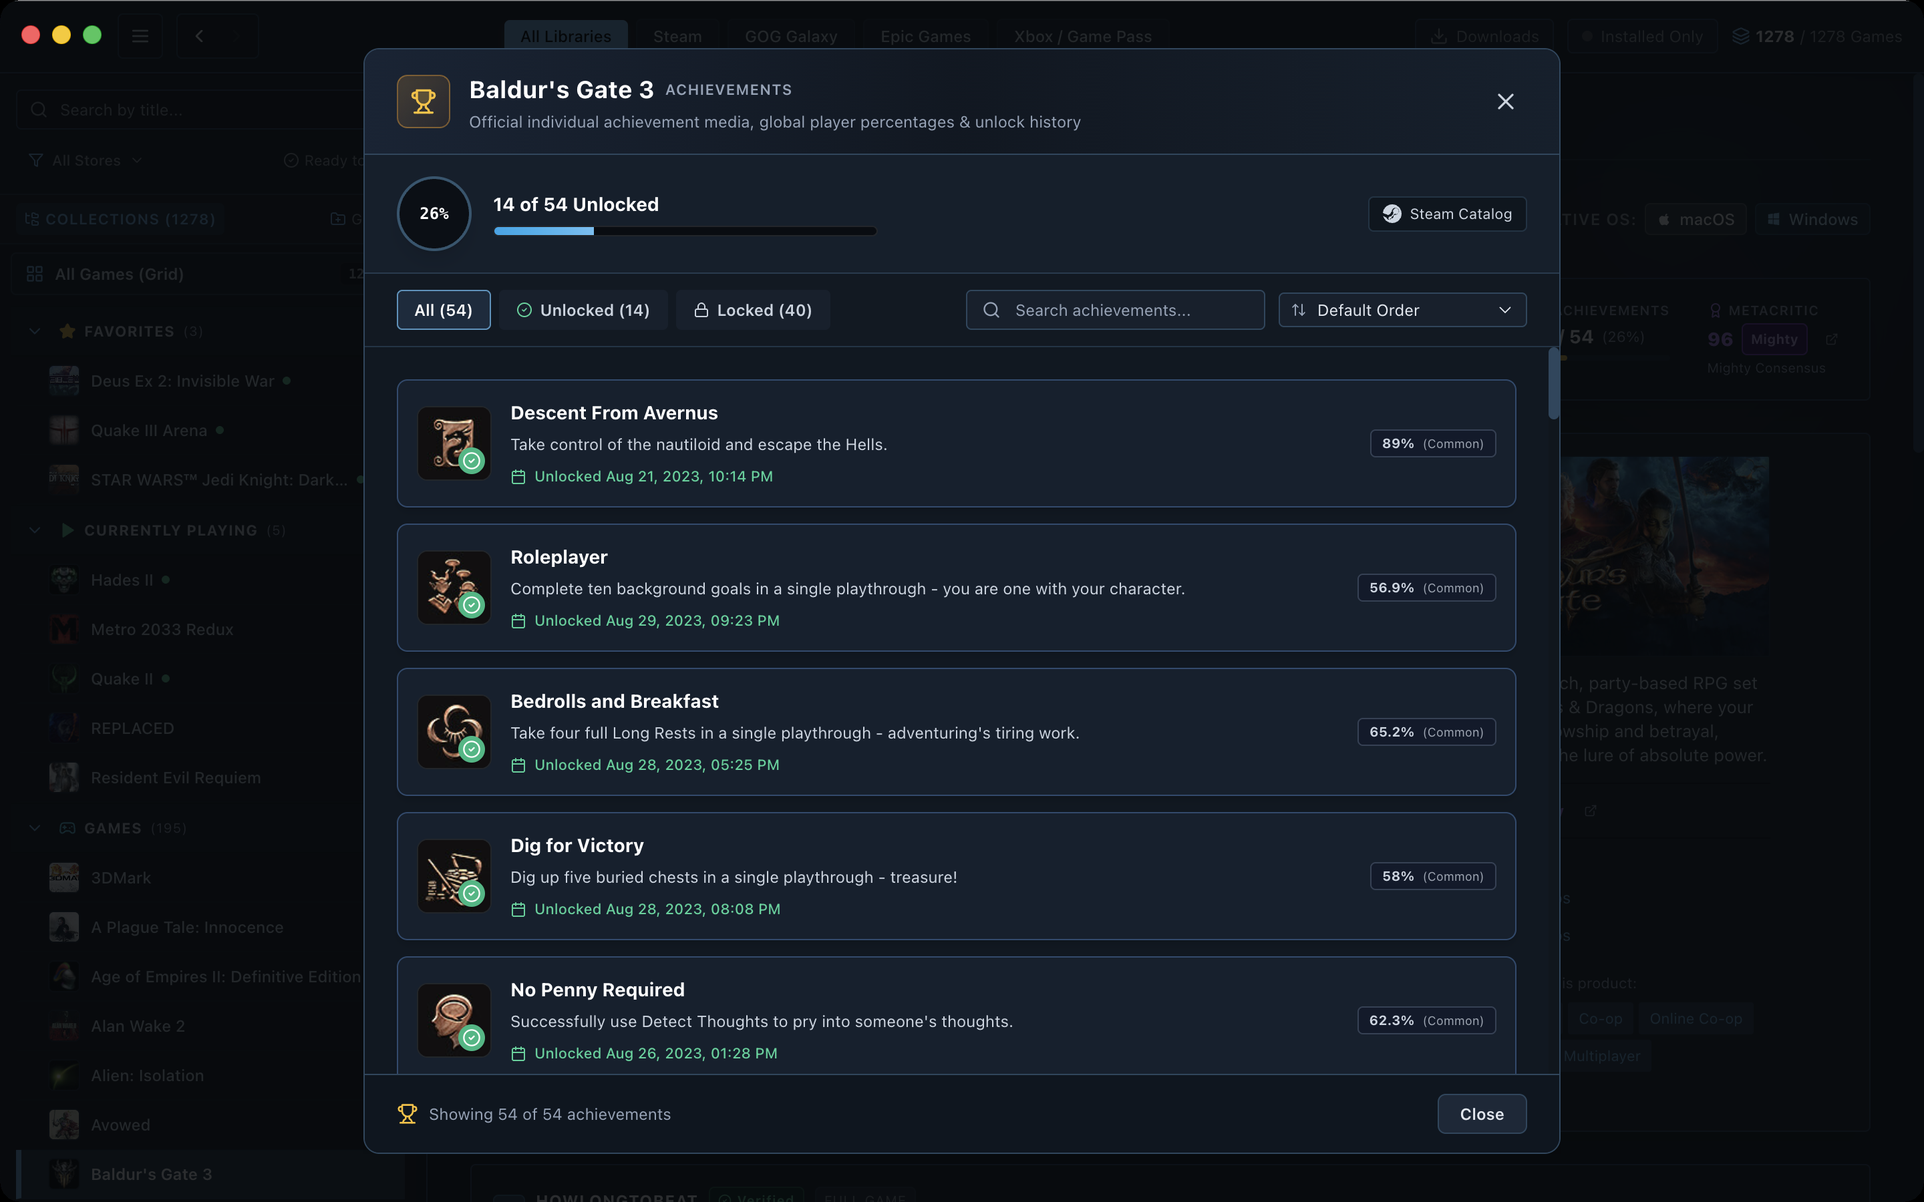
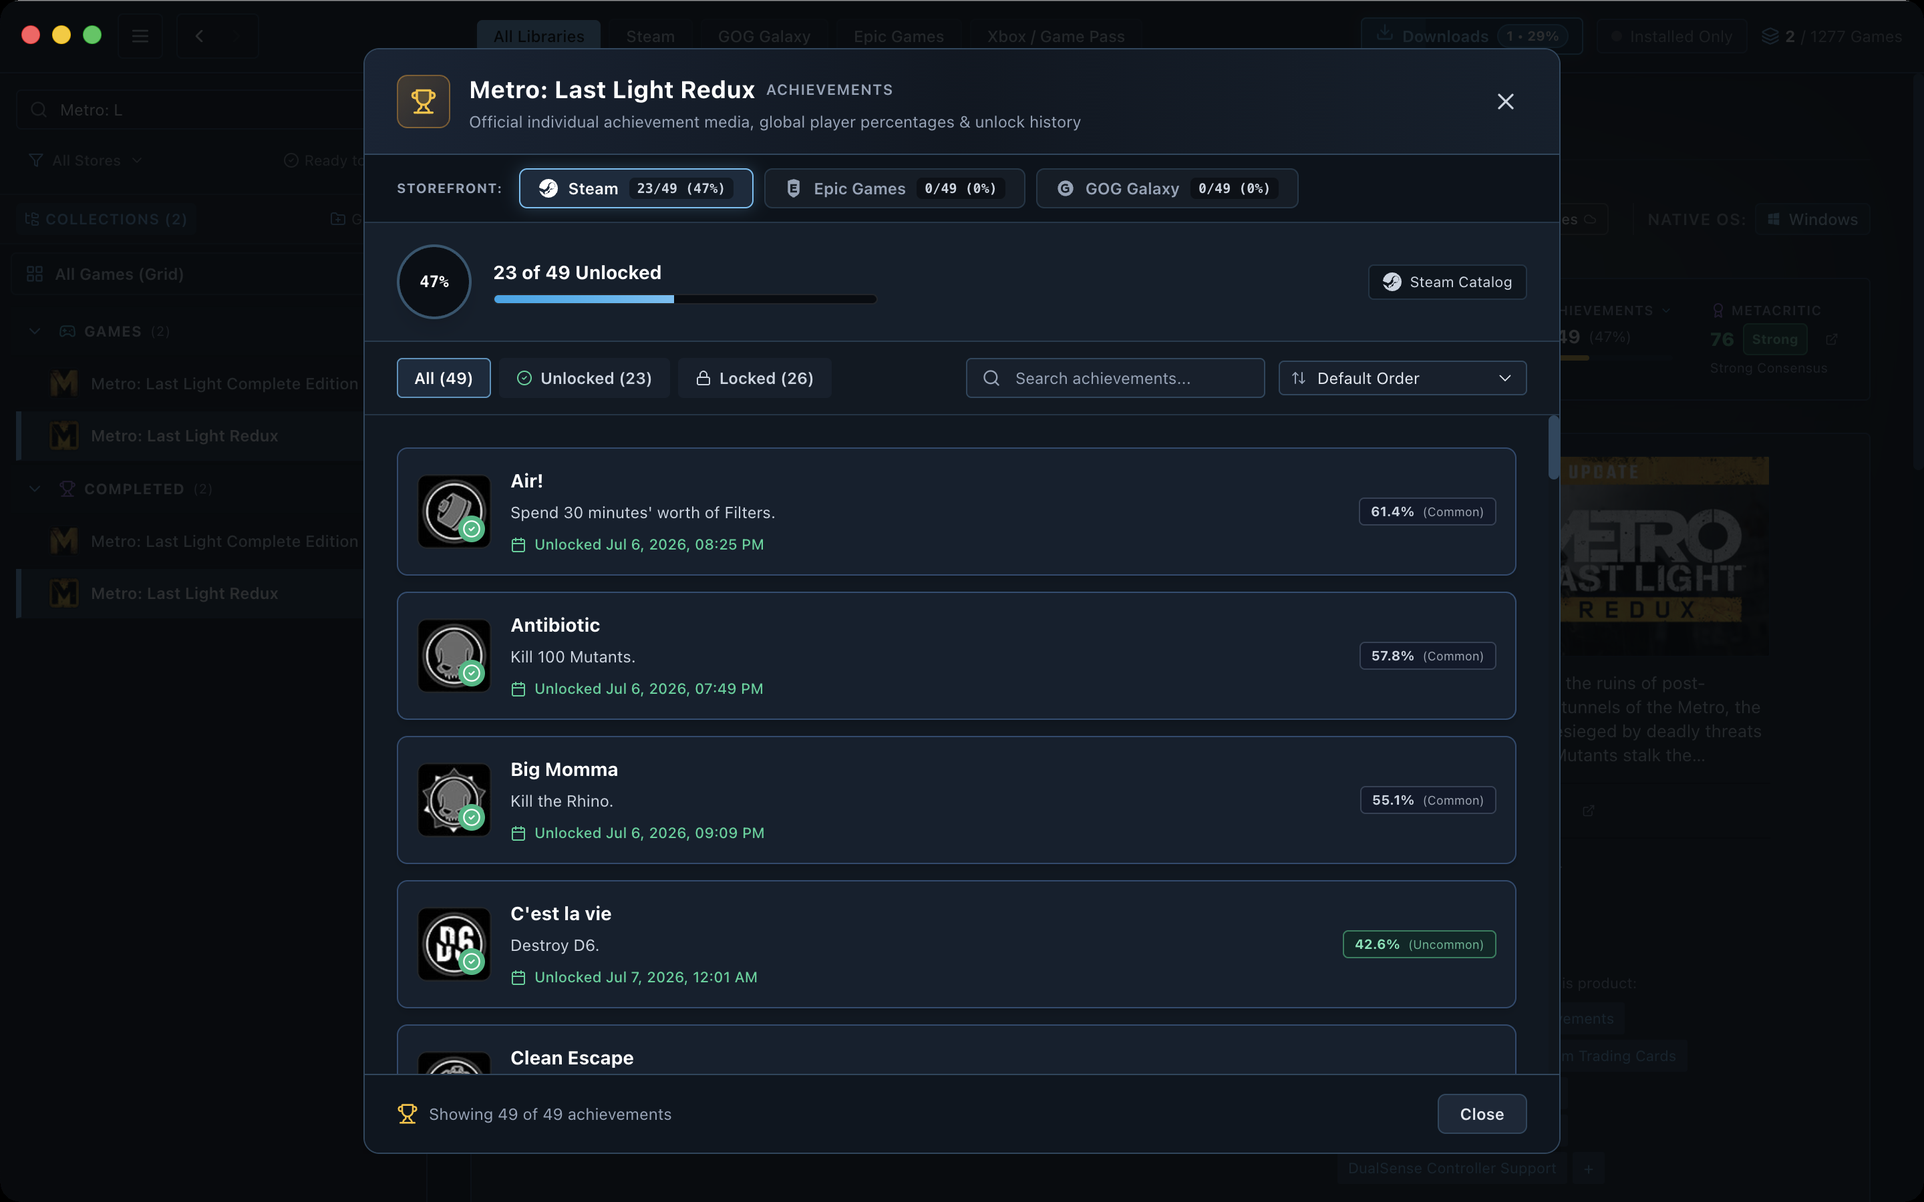
docs: revise end-user README and update sanitized screenshots

diff --git a/README.md b/README.md
@@ -3,100 +3,120 @@
 
   # One Launcher
 
-  **Your PC and Mac games on one shelf: Steam, GOG, Epic Games, Xbox / PC Game Pass, and standalone installs.**
+  **Desktop game library and launcher for macOS and Windows.**
 
-  [![Download v0.2.7](https://img.shields.io/badge/Download-v0.2.7-2563EB?style=for-the-badge)](https://github.com/Space-Cadet0/One-Launcher/releases/tag/v0.2.7)
+  [![Download Latest Release](https://img.shields.io/badge/Download-Latest_Release-2563EB?style=for-the-badge)](https://github.com/Space-Cadet0/One-Launcher/releases/latest)
   [![macOS Apple Silicon](https://img.shields.io/badge/macOS-Apple_Silicon-000000?style=for-the-badge&logo=apple&logoColor=white)](#download--install)
   [![Windows 10/11](https://img.shields.io/badge/Windows-10_%2F_11-0078D6?style=for-the-badge&logo=windows&logoColor=white)](#download--install)
 </div>
 
 ---
 
-When your games live across Steam, GOG, Epic, Xbox / PC Game Pass, and a handful of local folders, half the battle is just remembering where you bought something and whether it is actually installed.
-
-One Launcher pulls everything into one desktop app for **macOS (Apple Silicon)** and **Windows 10/11**. It tracks what you own across storefronts, combines duplicate copies onto a single page, gathers trailers, critic scores, and HowLongToBeat times, and lets you launch Mac-native games, Windows games on PC, or Windows games on Mac via CrossOver, Apple Game Porting Toolkit, or Wine.
+One Launcher is a desktop game library and launcher for **macOS (Apple Silicon)** and **Windows 10/11**. It puts your **Steam**, **GOG.com**, **Epic Games Store**, **Xbox / PC Game Pass**, and local games into one library where you can browse, organize, download, install, and launch them. On Mac, it also runs Windows games through CrossOver, Apple Game Porting Toolkit, or Wine.
 
 ---
 
 ## Download & Install
 
-Grab the latest installers from the **[v0.2.7 Release page](https://github.com/Space-Cadet0/One-Launcher/releases/tag/v0.2.7)**. Once installed, an in-app update checker notifies you whenever a newer release ships and lets you jump straight to the installer.
+Download the latest installers from the **[Releases page](https://github.com/Space-Cadet0/One-Launcher/releases/latest)**. An in-app update check looks for newer GitHub releases and alerts you when an update is ready.
 
 ### macOS (Apple Silicon, macOS 13 or newer)
-1. Download **`One Launcher-0.2.7-arm64.dmg`** from the [v0.2.7 release](https://github.com/Space-Cadet0/One-Launcher/releases/tag/v0.2.7).
+1. Download the macOS Apple Silicon `.dmg` installer from the [latest release](https://github.com/Space-Cadet0/One-Launcher/releases/latest).
 2. Open the disk image and drag **One Launcher** into your **Applications** folder.
-3. Because the app isn't notarized with an Apple Developer subscription yet, macOS Gatekeeper may warn you on first launch. Right-click **One Launcher** in Applications and choose **Open**, or run this in Terminal:
+3. Because the app is not notarized with an Apple Developer subscription yet, macOS Gatekeeper may warn you on first launch. Right-click **One Launcher** in Applications and choose **Open**, or run this in Terminal:
    ```bash
    xattr -cr "/Applications/One Launcher.app"
    ```
 
 ### Windows (Windows 10 / 11, 64-bit)
-- Download and run **`One Launcher Setup 0.2.7.exe`** from the [v0.2.7 release](https://github.com/Space-Cadet0/One-Launcher/releases/tag/v0.2.7).
-- If you ever want a clean removal later, **`One Launcher Full Uninstaller.exe`** is attached to the same release so nothing is left behind.
+- Download and run the Windows setup `.exe` installer from the [latest release](https://github.com/Space-Cadet0/One-Launcher/releases/latest).
+- **One Launcher Full Uninstaller.exe** is attached to the same release if you want to remove the app completely.
 
-On first launch, a 5-step Setup Wizard helps you connect your store accounts and verify your Mac compatibility tools (CrossOver, Apple Game Porting Toolkit, or Wine) or Windows runtime prerequisites. An ongoing health check flags any missing tools or broken bottle settings in the menu bar so you can re-open the wizard and repair them anytime.
+### Setup Wizard
+On first launch, a 5-step **Setup Wizard** walks through initial setup for your operating system:
+- **macOS:** `1. Accounts` (connect Steam, GOG, Epic, and Xbox), `2. Windows Games` (choose a compatibility runner and bottle), `3. Launchers` (configure storefront clients), `4. Install` (automated setup), and `5. Sign In` (sign in to installed store clients).
+- **Windows:** `1. System` (check Visual C++ Redistributable and WebView2 runtimes), `2. Accounts`, `3. Launchers`, `4. Install`, and `5. Sign In`.
+
+A health check indicator remains in the top menu bar after setup. If a tool, runtime, or bottle configuration breaks later, click that indicator to reopen the wizard in repair mode.
 
 ---
 
 ## A Look Inside
 
-### Your whole library on one screen
-![One Launcher library grid showing Steam, GOG, Epic, and Xbox Game Pass games](docs/screenshots/library-overview.png)
-Browse every title in a cover grid, switch storefronts or installed-only views from the top bar, narrow down with 6 filter categories (OS compatibility, critic/player ratings, genres, game features like co-op or HDR, release era, and developers/publishers), sort how you like, and organize games into custom sidebar collections with 24 folder icons.
+### Your Library in One Place
+![One Launcher library grid sorted by Play Time](docs/screenshots/library-overview.png)
 
-### Game pages built for actually deciding what to play
+View your catalog in a cover grid, filter by storefront or toggle **Installed Only** in the top bar, and sort by **Play Time**, **Rating**, **Recently Played**, **Release Year**, or **Alphabetical**. You can also filter across 6 categories: OS compatibility, critic or player rating, genres, game features (such as co-op or HDR), release year range, and developers or publishers.
+
+### Organizing with Collections
+Group games in the sidebar with 4 built-in collections (**Favorites**, **Currently Playing**, **Backlog**, and **Completed**) or create custom collections. You can pick from 24 color-coded icons, drag collections to reorder them in the sidebar, collapse or expand groups, and assign a game to multiple collections from its bookmark button or right-click menu.
+
+### Game Details, Clips, and Reviews
 ![Game detail header for Death Stranding 2 showing playtime, achievements, Metacritic consensus, and trailer](docs/screenshots/ds2-game-detail.png)
-Every game gets a dedicated page with playtime tracking, achievement progress, Critic and Steam consensus badges, trailers, and a storefront switcher right next to Play or Install whenever you own the same title on multiple stores.
 
-### Store descriptions, clips, controller support, and languages
+Each game page shows playtime, last-played date, disk space, achievement progress, trailers, screenshots, and review scores. If you own the same game on multiple storefronts, One Launcher combines those copies into one game entry instead of listing duplicates.
+
 ![Animated preview of the About This Game section showing looping video clips, controller support, and supported languages](docs/screenshots/ds2-about-rich-media.gif)
-Scroll past the media reel for the full store description complete with auto-playing video clips, controller and DualSense feature flags, supported audio/subtitle languages, and release metadata.
 
-### HowLongToBeat times and critic reviews in one spot
+Below the media gallery, the store description includes inline video clips, controller and DualSense support flags, supported languages (interface, audio, and subtitles), and system requirements.
+
 ![HowLongToBeat completion estimates and Metacritic review breakdown](docs/screenshots/ds2-hltb-reviews.png)
-Live HowLongToBeat cards show Main Story, Main + Sides, Completionist, and All Styles estimates right above Metacritic, OpenCritic, and Steam review breakdowns so you know what you are getting into before you hit download.
 
-### Store accounts, Game Pass sync modes, and offline caching
+**HowLongToBeat** cards list Main Story, Main + Sides, Completionist, and All Styles time estimates alongside **Metacritic**, **OpenCritic**, and **Steam** review breakdowns.
+
+### Download, Install, and Launch by Storefront
+![Kingdom Come: Deliverance downloading from Epic Games with the storefront switcher and Downloads manager open](docs/screenshots/kcd-download-storefront.png)
+
+For games owned on more than one store, the storefront switcher next to the main action button picks which store copy to manage, download, install, update, or launch. Clicking **Downloads** in the top bar opens the Downloads panel on the right with transfer speed, progress, ETA, and pause, resume, or cancel buttons. Active downloads pause automatically while a game is running and resume when you exit.
+
+### Supported Storefronts and Account Sync
 ![Storefront Integrations modal showing connected accounts and Game Pass options](docs/screenshots/storefront-integrations.png)
-Sign in directly to Steam, GOG.com, Epic Games, and Xbox Live through their official login pages, without leaving four separate store launchers open in the background. For Xbox / PC Game Pass, you can choose whether to sync your full Game Pass catalog, only games you have played or installed, or strictly permanent purchases.
 
-### Playing Windows games on Mac
+One Launcher connects directly to four storefronts, along with local game folders:
+- **Steam:** Sign in with your Steam account or SteamID64 to import owned games, playtime, and achievements.
+- **GOG.com:** Sign in directly to download DRM-free games and sync cloud saves without GOG Galaxy installed (optional GOG Galaxy support handles achievements and multiplayer).
+- **Epic Games Store:** Sign in directly to download games, sync cloud saves, and track achievements without running the Epic Games Launcher for most titles.
+- **Xbox / PC Game Pass:** Sign in with Microsoft / Xbox Live to import Microsoft Store purchases, Game Pass games, achievements, and cloud saves. Choose whether to sync the full Game Pass catalog, only games you have played or installed, or strictly owned purchases. **Chained launchers for Xbox Game Pass games (e.g., EA) are not yet implemented.**
+- **Local and Standalone Installs:** Scans your drives and CrossOver or Wine bottles for macOS `.app` bundles and Windows `.exe` games while filtering out stray uninstallers and crash reporters. You can also link a local install manually using **Manage Game -> Locate Installed Game...** or set a custom executable in **Launch Properties...**.
+
+Sign-ins go directly to each storefront's official login page with no One Launcher account or external server in between, and tokens are encrypted in your operating system's keychain. Store metadata and artwork are cached locally in the **Offline Library Vault** (configurable at `250 MB`, `1 GB`, or `2 GB`) so your library stays browsable offline.
+
+### Playing Windows Games on Mac
 ![Launch and Compatibility Settings modal showing graphics backends, MetalFX DLSS, frame rate limit, and display scaling](docs/screenshots/crossover-launch-settings.png)
-For Windows titles running on a Mac, each game keeps its own graphics and display settings: pick a translation backend (`D3DMetal`, `DXMT`, `DXVK`, or `WineD3D`), turn on MetalFX DLSS or Spatial upscaling, enable HUD overlays (Apple Metal HUD or DXVK / DXMT HUD with live FPS telemetry), cap frame rates to keep fans quiet, switch on Retina 192 DPI mode for sharp menus and text, and tune fullscreen or aspect-ratio scaling.
 
-### Achievements across stores
-![Achievements modal showing unlocked progress, timestamps, and global rarity](docs/screenshots/game-achievements.png)
-Inspect unlocked and remaining achievements from Steam, Epic, GOG, and Xbox in one place with unlock dates and global rarity percentages. Secret achievement descriptions stay hidden behind a Reveal Spoiler toggle so story moments don't get spoiled.
+Windows game compatibility on Mac is intended for, and works best with, **[CrossOver](https://www.codeweavers.com/crossover)** (available to buy from the [CodeWeavers Store](https://www.codeweavers.com/store)). One Launcher also supports **CrossOver Preview** (Intel/win64 and Apple Silicon `arm64`/FEX builds), **Apple Game Porting Toolkit (GPTK)**, and open-source **Wine**, with per-game runner and bottle selection as well as install and update checks.
 
-### Fix Match wizard when local folders get weird
+Each game keeps its own graphics, performance, and display settings:
+- **Graphics backends:** Choose **Auto**, **D3DMetal** (with v4 and v3 selection on dual-D3DMetal CrossOver Preview builds), **DXMT**, **DXVK**, or **WineD3D**.
+- **Upscaling and frame pacing:** Enable **MetalFX DLSS** (64-bit games on macOS Tahoe 26+ with D3DMetal, or macOS Sonoma 14+ with DXMT) or **MetalFX Spatial** (`1.33x` to `2.0x`), turn on **Apple Metal HUD** or **DXVK / DXMT HUD**, cap frame rates (`30` to `144` FPS or unlimited), choose **MSync** or **ESync** thread synchronization, and toggle the **32-bit 4 GB Address Space Override** for older 32-bit titles.
+- **Display Scaler:** Many older Windows games only offer low fixed resolutions (such as `640x480`, `800x600`, or `1024x768`), or have trouble with MacBook Retina scaling, screen notches, and exclusive fullscreen. That often causes tiny corner windows, clipped or stretched menus, black screens, or a trapped cursor when switching apps. Without modifying game files on disk, One Launcher sits between the game's display calls and macOS using Display Mode Emulation and a lightweight fullscreen presenter. It reports standard display modes to the game and draws output into a single notch-safe macOS borderless window scaled to your display. You can pick **4:3 Pillarbox**, **Integer Pixel-Perfect**, or **Stretch** aspect modes, switch apps with cooperative `Cmd+Tab` (releasing the cursor and minimizing cleanly), toggle fullscreen (`Ctrl+Option+F`) or cycle aspect ratios (`Ctrl+Option+A`) while playing, and enable **Retina 192 DPI** mode for sharp text and menus.
+- **Input and cleanup:** Configures controller compatibility (including clean-room Xbox GDK bridge DLLs), flags Windows kernel-level anti-cheat incompatibilities on the game page, and closes temporary storefront client wrappers when you exit a game (**Client Auto-Close**).
+
+### Achievements Across Stores
+![Achievements modal for Metro: Last Light Redux showing Steam, Epic Games, and GOG Galaxy tabs](docs/screenshots/game-achievements.png)
+
+View unlocked and locked achievements across **Steam**, **Epic Games Store**, **GOG.com**, and **Xbox** in one modal. For games owned on more than one store, tabs at the top switch between each storefront's unlock progress, timestamps, and global rarity percentages. Secret achievement descriptions stay hidden behind a **Reveal Spoiler** toggle.
+
+### Automatic Game Matching and Manual Overrides
 ![Four-step Fix Match and Metadata wizard showing cross-store search results](docs/screenshots/fix-match-wizard.png)
-If an old DRM-free install, bottle `.exe`, or ambiguously named folder pulls the wrong cover, the 4-step **Fix Match & Metadata** wizard searches Steam, IGDB, GOG, Epic, and Xbox together, lets you swap 2:3 cover poster artwork, pick your preferred review source, and edit metadata before applying anything.
 
-### Library Match & Overrides Studio for auditing your catalog
-![Library Match and Overrides Studio showing manual overrides across storefronts](docs/screenshots/library-match-studio.png)
-Open **Library Match & Overrides Studio** from the top-left menu to review auto-matched titles, track down unmatched installs, and manage every manual override in one table.
+One Launcher automatically matches your store accounts and local folders to game metadata while filtering out tools, SDKs, dedicated servers, and redistributables. When a local folder or older install gets matched incorrectly, you can fix or override it using the 4-step **Fix Match & Metadata** wizard to search Steam, IGDB, GOG, Epic, and Xbox, replace cover art, choose a review source, or edit details. You can also audit unmatched installs, auto-filtered items, and manual overrides across your catalog in **Library Match & Overrides Studio**.
 
 ---
 
-## How Everything Fits Together
-
-### Multi-storefront sync without clutter
-One Launcher connects to **Steam**, **GOG.com**, **Epic Games Store**, **Xbox / PC Game Pass**, and **local installs** (both macOS `.app` bundles and Windows `.exe` directories). Its scanner sweeps your drives and CrossOver or Wine bottles for already-installed games while skipping stray uninstallers and crash reporters.
-
-*Note on Xbox Game Pass:* Direct Xbox and PC Game Pass games are supported on both Windows and Mac, including achievements and cloud saves. However, **chained launchers for Xbox Game Pass games (such as EA games launched through the EA App) are not yet implemented.**
-
-### Windows compatibility and the Display Scaler on Mac
-On Apple Silicon Macs, One Launcher automatically detects **CrossOver**, **CrossOver Preview** (Intel and ARM modes), **Apple Game Porting Toolkit**, and **Wine**. When an older or picky Windows game tries to run at low legacy resolutions like `640x480` or `800x600`, One Launcher's built-in Display Scaler upscales it cleanly into notch-safe macOS fullscreen with integer pixel-perfect, `4:3` pillarbox, or stretch aspect modes, while keeping `Cmd+Tab` app switching cooperative instead of trapping your cursor or display. While in-game, press `Ctrl+Option+F` to toggle fullscreen vs. windowed mode, or `Ctrl+Option+A` to cycle aspect ratios. If launching a storefront client briefly opens its desktop wrapper on Mac or PC, **Client Auto-Close** cleans it up after your game exits.
-
-### Downloads, saves, memory hibernation, and offline mode
-Queue downloads inside the Universal Download Manager and let it automatically pause active downloads as soon as you start playing something else. Before and after every play session, One Launcher captures rolling local backups of your save folders alongside your store's cloud save sync. While a game is running, **In-Game Hibernation** suspends background artwork and video decoding so the launcher uses next to no memory or CPU, and the **Offline Library Vault** keeps your entire catalog, covers, and cached metadata browsable on flights or offline setups.
-
----
-
-## Good to Know (Current Limitations)
+## Current Limitations
 
 - **Chained launchers for Xbox Game Pass games (e.g., EA) are not yet implemented.** Direct Game Pass titles work normally, while Game Pass titles that hand off to a separate third-party publisher client like the EA App are not supported yet.
 - Games that require Windows kernel-level anti-cheat (such as Riot Vanguard) cannot run through translation tools on macOS and require native Windows.
+
+---
+
+## Credits
+
+- **Bundled storefront CLI tools:** [Legendary](https://github.com/legendary-gl/legendary) (originally by derrod, GPL-3.0) for Epic Games Store downloads, updates, launching, and cloud saves; [heroic-gogdl](https://github.com/Heroic-Games-Launcher/heroic-gogdl) (by the Heroic Games Launcher team, GPL-3.0) for GOG.com downloads, repairs, and cloud saves.
+- **macOS compatibility and graphics layers (external tools integrated or provisioned by One Launcher):** [CrossOver](https://www.codeweavers.com/crossover) by CodeWeavers, Apple Game Porting Toolkit (`D3DMetal`) and Rosetta 2, [Wine](https://www.winehq.org/) (LGPL-2.1+), [Gcenx macOS Wine builds](https://github.com/Gcenx/macOS_Wine_builds) and [Gcenx GPTK](https://github.com/Gcenx/game-porting-toolkit), [DXMT](https://github.com/3Shain/dxmt) (LGPL-3.0), [DXVK](https://github.com/doitsujin/dxvk) (zlib), [MoltenVK](https://github.com/KhronosGroup/MoltenVK) (Apache-2.0), and WineD3D (LGPL-2.1+).
+- **Metadata, artwork, and review sources:** [HowLongToBeat](https://howlongtobeat.com/), [OpenCritic](https://opencritic.com/), [Metacritic](https://www.metacritic.com/), [Lutris](https://lutris.net/), and [IGDB](https://www.igdb.com/), alongside Steam, GOG.com, Epic Games, and Xbox storefront APIs.
+- **Desktop framework:** Built with [Electron](https://www.electronjs.org/) and [React](https://react.dev/).
 
 ---
 
